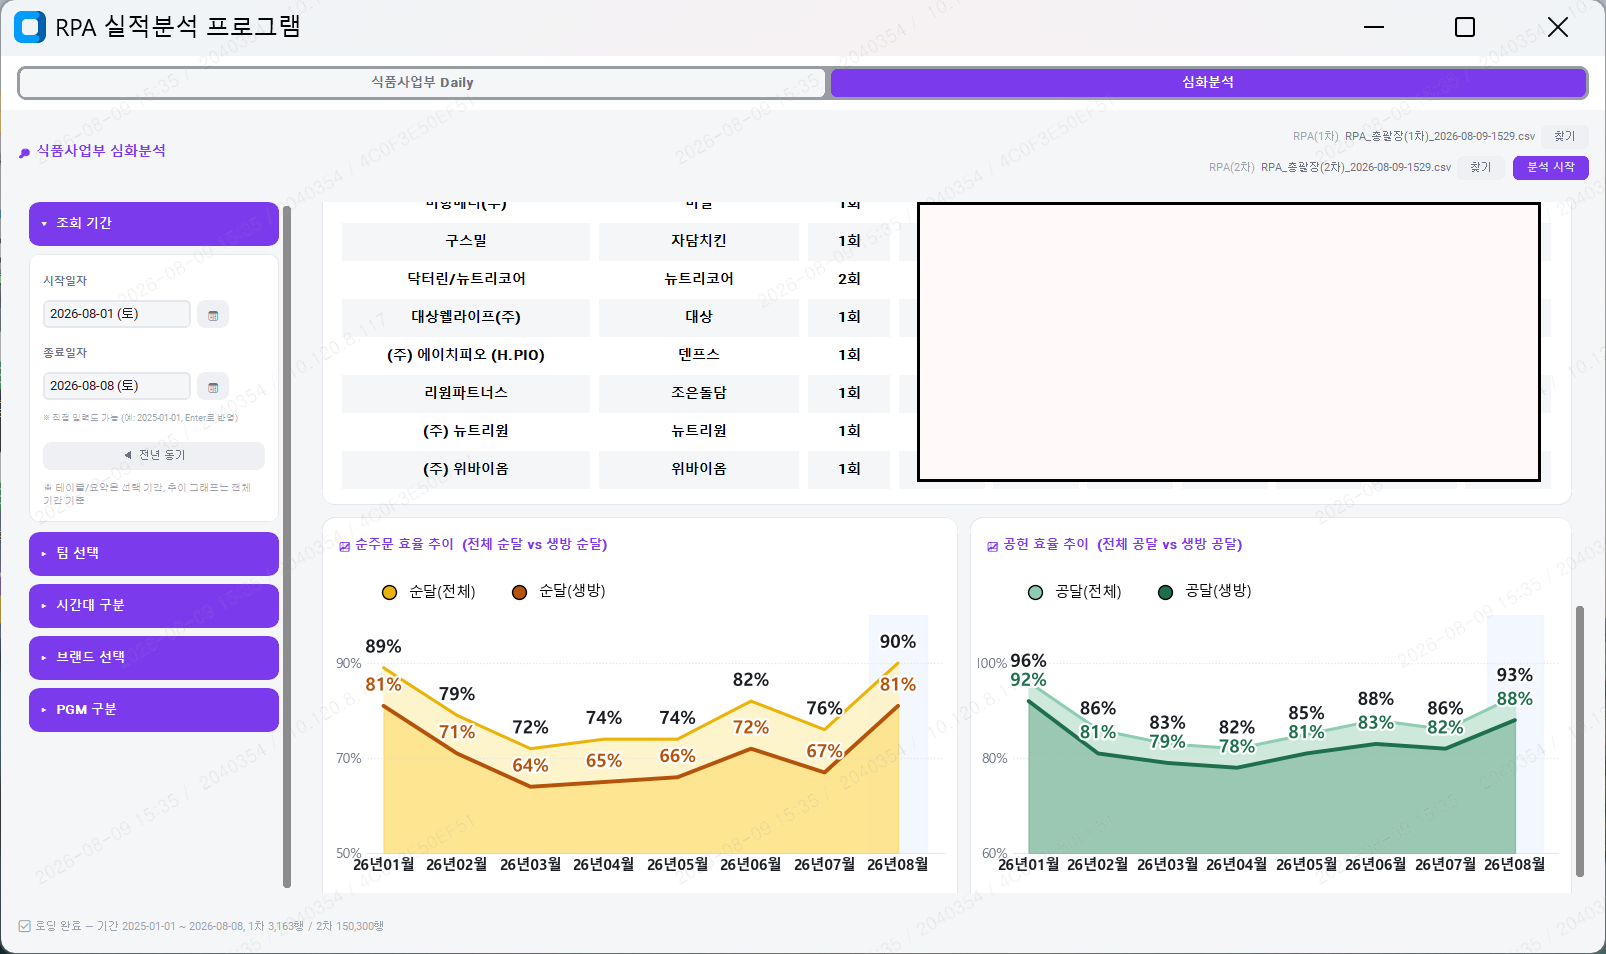
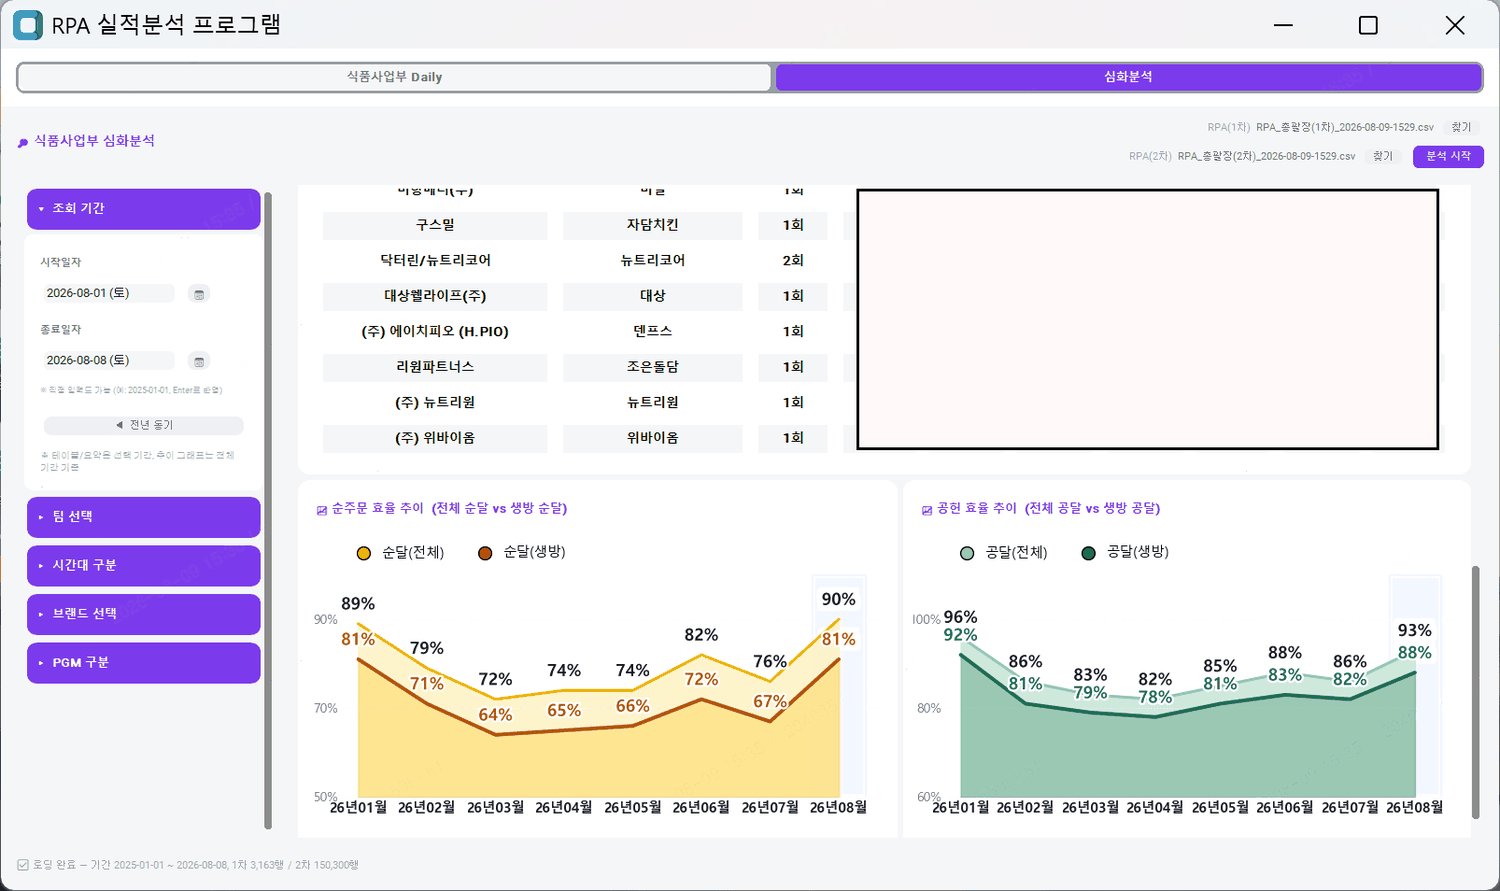
Add automation program screenshots
업로드된 화면 3장을 정리해 연결했습니다.

- 파일명 오타 수정 : campain-3050.png → campaign-3050.png
- 사내 워터마크 제거 및 최적화 (235→103, 135→36, 175→53 KB)
- 3-1 카드 제목·설명을 실제 캡처(심화분석 화면)에 맞춰 수정
  기간·팀·브랜드 슬라이서와 효율 추이 그래프 중심으로 재작성

Claude-Session: https://claude.ai/code/session_01HPYi3Ui74eGGtBjPM3J3tL

diff --git a/assets/data.js b/assets/data.js
@@ -421,10 +421,11 @@ const PROJECTS = [
         shots: [
           {
             src: "images/auto-daily.png",
-            title: "식품사업부 Daily 실적 요약",
+            title: "심화분석 화면",
             desc: [
-              "팀별 접수 · 방송 · 미주 실적과 달성률 요약",
-              "저효율 PGM 경고 목록과 협력사별 달성률을 함께 제공"
+              "조회 기간 · 팀 · 브랜드 · 시간대 · PGM 구분을 좌측 슬라이서로 좁혀가며 조회",
+              "협력사 · 브랜드별 실적 표와 순주문 · 공헌 효율 추이 그래프를 함께 제공",
+              "전년 동기 버튼으로 같은 기간을 1년 전과 바로 비교"
             ]
           }
         ]

diff --git a/images/README.md b/images/README.md
@@ -45,6 +45,9 @@
 
 | 파일 | 내용 |
 |---|---|
+| `auto-daily.png` | 3-1 심화분석 화면 |
+| `auto-ogamsho.png` | 3-2 오감쇼 상세분석 화면 |
+| `campaign-3050.png` | 3-4 캠페인 운영현황 화면 |
 | `duty-1.png` `duty-2.png` `duty-3.png` | 3-5 당직 매출 추정 · 보고 자동화 |
 
 ### 프로젝트 4 · AI 사이트 (`hdhs/` 폴더)
@@ -72,9 +75,6 @@
 |---|---|
 | `p1-1-monitoring.png` | 1-1 · 월별·조직별 효율 모니터링 |
 | `p1-2-ogamsho.png` | 1-2 · 〈오감쇼〉 카테고리 포트폴리오 |
-| `auto-daily.png` | 3-1 · 식품사업부 Daily 실적 분석 |
-| `auto-ogamsho.png` | 3-2 · 오감쇼 상세분석 화면 |
-| `campaign-3050.png` | 3-4 · 캠페인 운영현황 화면 |
 | `hdhs/lavangba.webp` | 4-1 · 홈쇼핑 방송 실적 (라방바) 대시보드 |
 
 ## 파일 추가·교체 규칙
